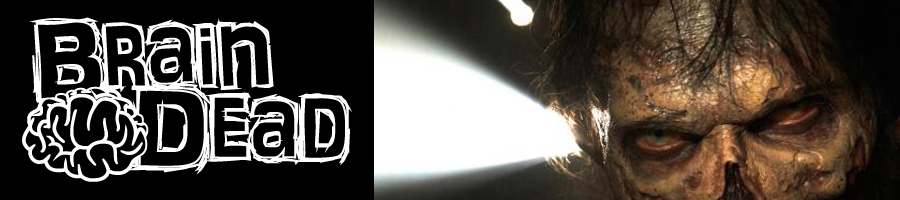
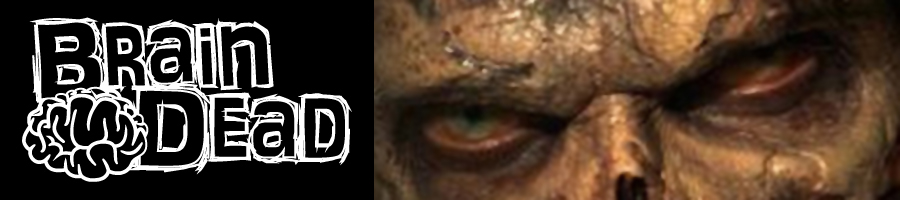
edits to ReadMe with new header image

diff --git a/README.md b/README.md
@@ -1,10 +1,18 @@
-![Brain Dead](https://github.com/stabrr/Team-Awesome/blob/master/client/public/assets/images/zombie12.jpg?aw=true) 
+![Brain Dead](https://github.com/stabrr/Team-Awesome/blob/master/client/public/assets/images/zombie12.jpg?aw=true)
 # Brain Dead
 
 ## Description
+This web application is a zombie themed memory card game that challenges users to match any pair of cards of the same image. Each game played is timed and records how long it takes to complete. Users who hold the Top 10 record times are displayed within the Stats page.  
 
-This application is a zombie themed memory card game that runs on REACT to provide blah blah blah
-Please view the app please visit http.
+To view app please visit http://heroku.something-something.com.
+
+## Technology
+ReactJS,, JawsDB MySQL, custome ORM, GET and POST routing, MVC architecture, with user authentication capability
+
+NPM Packages:
+* Express
+* Axios
+* Shuffle
 
 ## License
 * None
